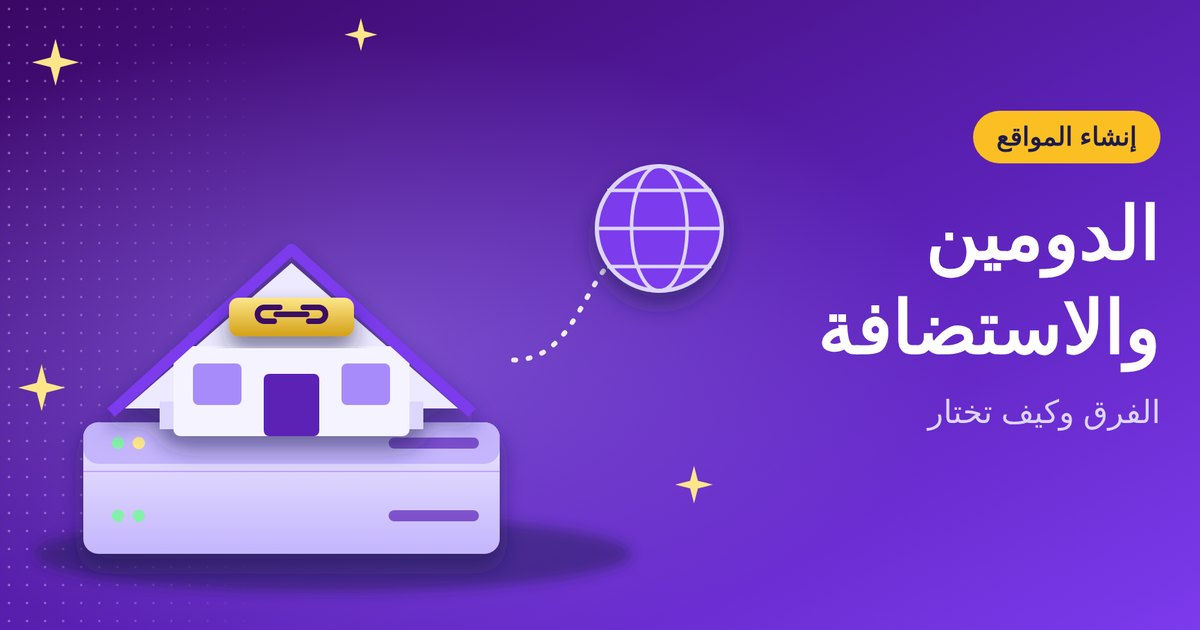
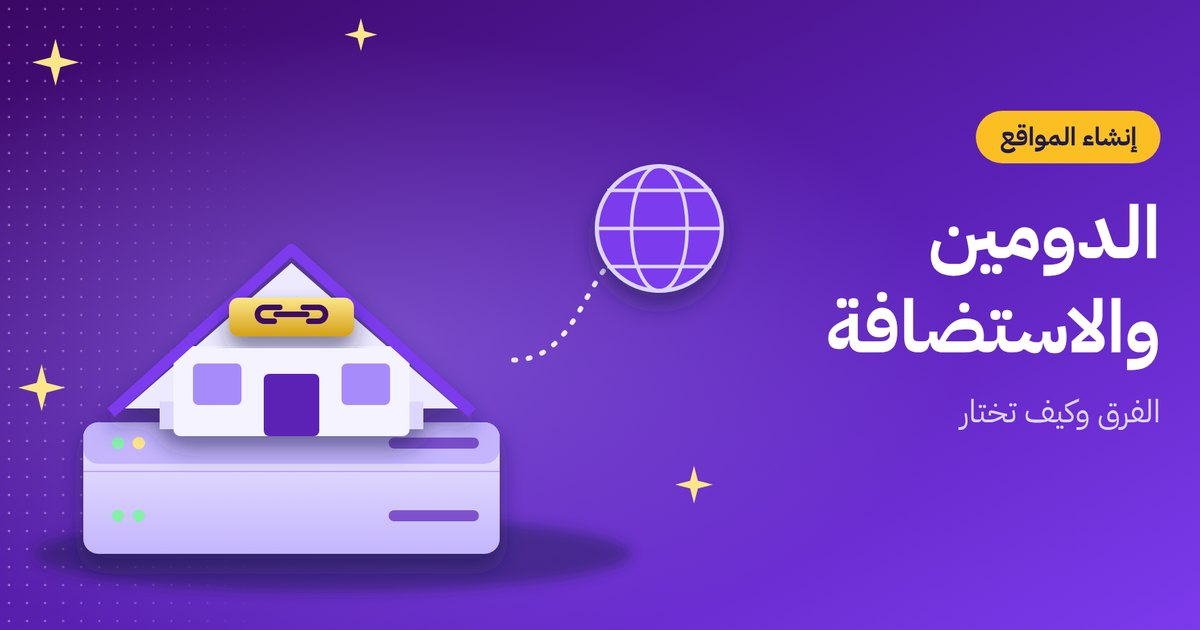
Fix cover typography: embed IBM Plex Sans Arabic (it was silently falling back to the system font)
- layer.mjs and brand_overlay.mjs embed the fonts as data URIs and fail loudly if a font does not load
- all 13 lesson covers regenerated; 5 new branded covers (real logo, name, URL) for the existing services, article and ebook product in content/images/ready
- retype_cover.py: --slug/--badge/--head/--sub/--brand for non-lesson covers

Claude-Session: https://claude.ai/code/session_01En7BxTrwfM3QKsinjbY2Hc

diff --git a/content/tools/retype_cover.py b/content/tools/retype_cover.py
@@ -20,12 +20,17 @@ from plate import clean_plate
 ap = argparse.ArgumentParser(); ap.add_argument('lesson', type=int); ap.add_argument('src'); ap.add_argument('--limit', type=int, required=True)
 ap.add_argument('--also', action='append', default=[], help='x0,y0,x1,y1 منطقة إضافية يجوز مسحها (نص يبدأ قبل --limit في صفوف لا يصلها الرسم)')
 ap.add_argument('--no-erase', action='store_true', help='الصورة المصدر رسم بلا نص (مثل covers/*.svg بعد تحويلها): لا يُمسح شيء، يُركَّب النص فوقها مباشرة')
+ap.add_argument('--slug'); ap.add_argument('--badge'); ap.add_argument('--head', help='سطور العنوان مفصولة بـ /'); ap.add_argument('--sub')
+ap.add_argument('--brand', action='store_true', help='أضف توقيع العلامة (الشعار الحقيقي + الاسم + الرابط) أسفل الصورة')
 ap.add_argument('--out', default=os.path.join(ROOT, 'academy-import', 'covers')); a = ap.parse_args()
-folder = glob.glob(os.path.join(ROOT, 'content', 'ready-to-paste', '%02d-*' % a.lesson))[0]
-rd = lambda p: open(glob.glob(os.path.join(folder, p + '*'))[0], encoding='utf-8').read()
-slug = rd('02-').strip()
-m = re.search(r'1\) الشارة[^\n]*\n(.+?)\n\n2\) العنوان الرئيسي[^\n]*\n(.+?)\n\n3\) العنوان الفرعي[^\n]*\n(.+?)\n\n', rd('07-'), re.S)
-badge, head, sub = m.group(1).strip(), [l.strip() for l in m.group(2).strip().split('\n')], m.group(3).strip()
+if a.slug:  # غلاف لمحتوى ليس درساً: النصوص تُمرَّر مباشرة
+    slug, badge, head, sub = a.slug, a.badge, [l.strip() for l in a.head.split('/')], a.sub
+else:
+    folder = glob.glob(os.path.join(ROOT, 'content', 'ready-to-paste', '%02d-*' % a.lesson))[0]
+    rd = lambda p: open(glob.glob(os.path.join(folder, p + '*'))[0], encoding='utf-8').read()
+    slug = rd('02-').strip()
+    m = re.search(r'1\) الشارة[^\n]*\n(.+?)\n\n2\) العنوان الرئيسي[^\n]*\n(.+?)\n\n3\) العنوان الفرعي[^\n]*\n(.+?)\n\n', rd('07-'), re.S)
+    badge, head, sub = m.group(1).strip(), [l.strip() for l in m.group(2).strip().split('\n')], m.group(3).strip()
 
 im = Image.open(a.src).convert('RGB'); W, H = im.size; A = np.asarray(im).astype(int)
 reg = A[int(H * .12):int(H * .40), int(W * .70):W]
@@ -40,5 +45,10 @@ with tempfile.TemporaryDirectory() as t:
     plate = im if a.no_erase else clean_plate(im, rects)[0]
     out = plate.convert('RGBA'); out.alpha_composite(Image.open(os.path.join(t, 'layer-x.png')).convert('RGBA'))
 os.makedirs(a.out, exist_ok=True); dst = os.path.join(a.out, slug + '.jpg')
-out.convert('RGB').resize((1200, 630), Image.LANCZOS).save(dst, quality=86, optimize=True, progressive=True)
+final = out.convert('RGB').resize((1200, 630), Image.LANCZOS)
+if a.brand:
+    with tempfile.TemporaryDirectory() as t2:
+        ov = os.path.join(t2, 'brand.png'); subprocess.run(['node', os.path.join(HERE, 'retype', 'brand_overlay.mjs'), ov], check=True)
+        final = final.convert('RGBA'); final.alpha_composite(Image.open(ov).convert('RGBA')); final = final.convert('RGB')
+final.save(dst, quality=86, optimize=True, progressive=True)
 print(f"lesson {a.lesson} -> {os.path.relpath(dst, ROOT)}  {os.path.getsize(dst)//1024} KB  headline {rep['headFont']}px (left edge {round(rep['head']['left'])} vs limit {a.limit})")
